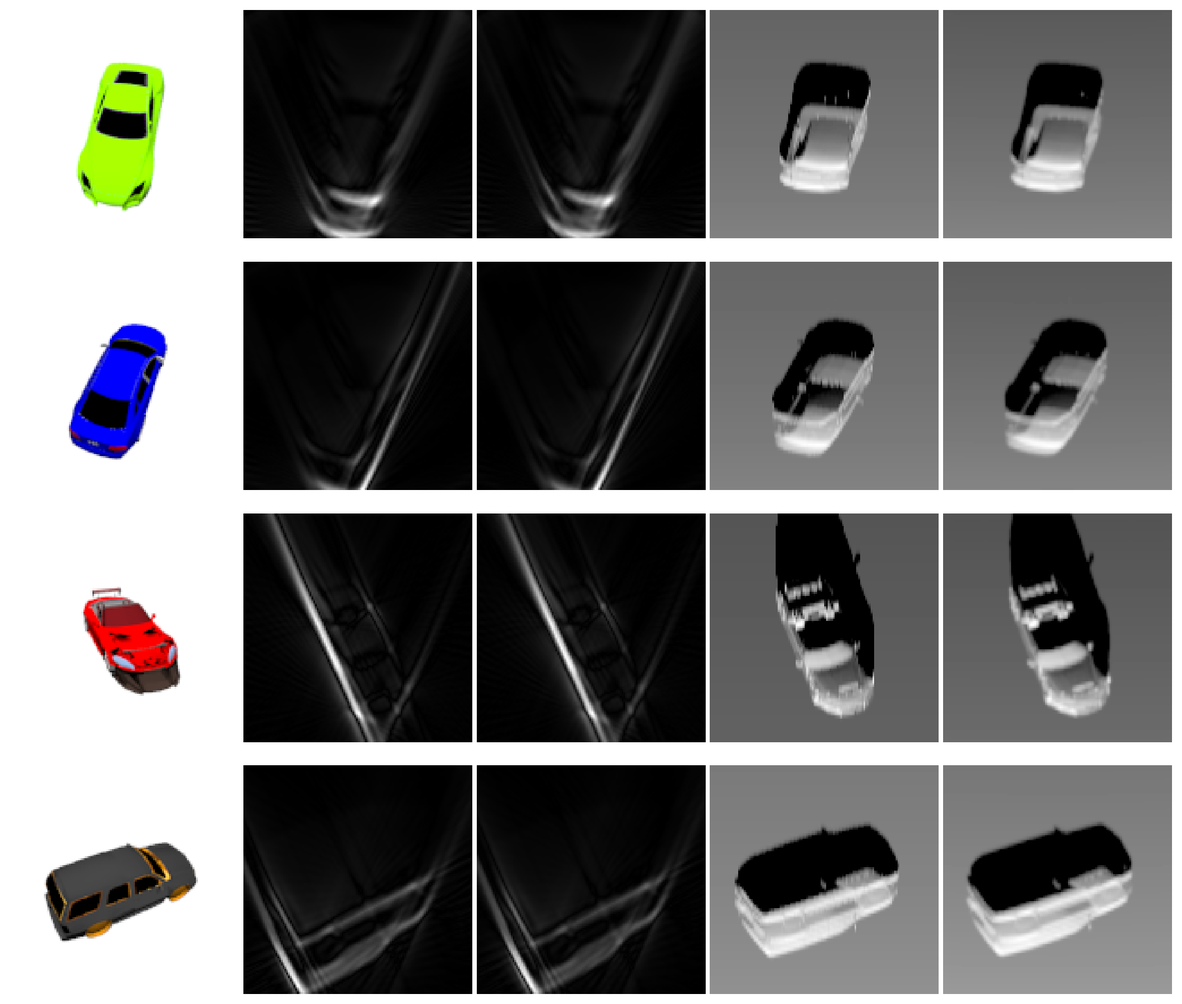
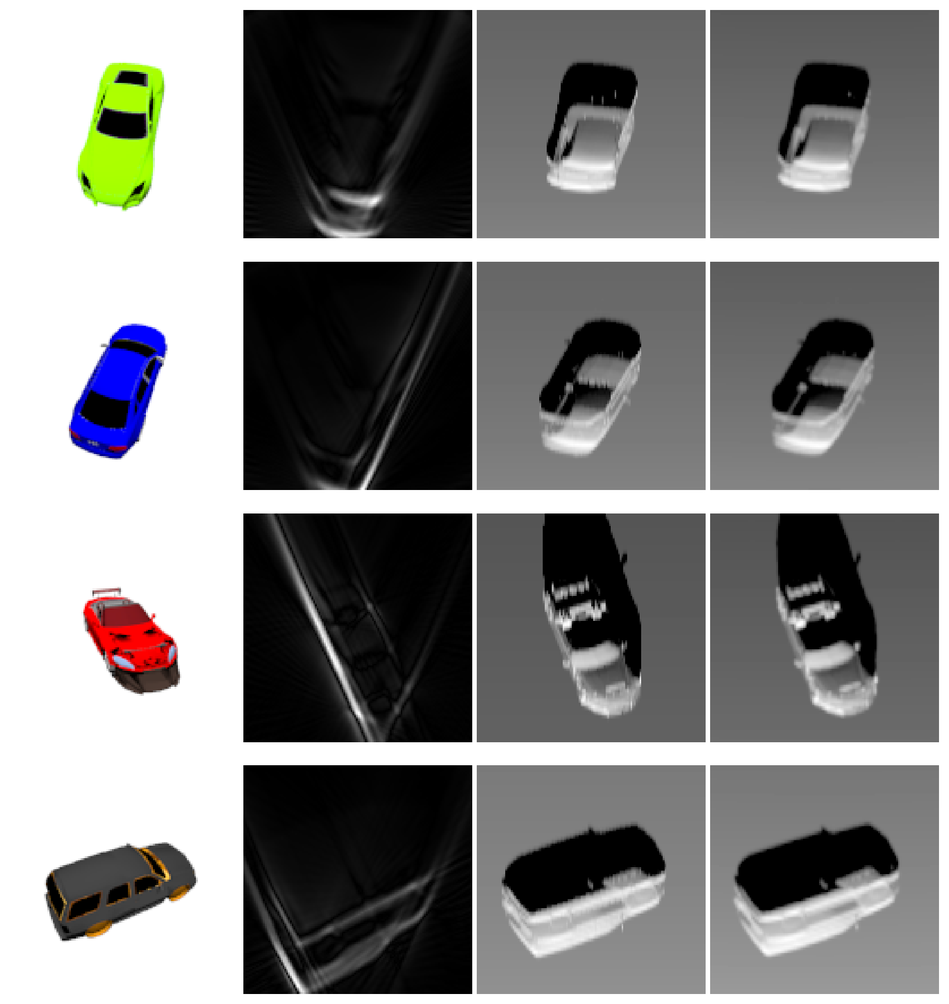
paper: spotlight SAR only, drop stripmap
Claude-Session: https://claude.ai/code/session_01GGmVrkSgyd4LF9qZZbmMeN

diff --git a/latex/main.tex b/latex/main.tex
@@ -34,9 +34,9 @@ Department of Electrical and Computer Engineering, The University of Arizona, Tu
 
 \corres{Correspondence: berian@arizona.edu}
 
-\abstract{There is currently a lack of open-source SAR and sonar simulators. \emph{RaySAR} supports only stripmap-mode imaging and forms images directly from geometry without simulating a received signal, while \emph{CVDomes} is limited to a few CAD models and spotlight mode. Both depend on outdated software such as MATLAB and POV-Ray, and neither simulates sonar. We present an \emph{open-source SAR and sonar simulator} implemented in \emph{PyTorch} with \emph{GPU acceleration} that renders four imaging modalities from a single ray-traced signal model: \emph{spotlight-mode SAR}, \emph{stripmap-mode SAR}, \emph{side-scan sonar}, and \emph{forward-looking sonar}. It supports arbitrary \texttt{.obj} 3D models, with configurable wavelength, sample rate, bandwidth, transmit waveform, and material properties. We simulate multi-bounce ray tracing to model realistic reflectivity, scattering, and absorption. We introduce an efficient low-pass filtering technique for summation and interpolation of ray returns, termed \emph{interposummation}, which accounts for the effective bandwidth and sample rate of the sensor. Each return keeps the round-trip phase of its path, so the simulated signals are complex-valued and support \emph{coherent imaging}. Interposummation accepts \emph{arbitrary transmit waveforms} through the effective window of their matched filter, so pulse-compression waveforms such as LFM chirps and Barker codes are simulated from the same ray trace as an ideal band-limited pulse. The simulator further supports radar cross section modeling, different noise types, and imperfect sensor trajectories. We test our simulator on ShapeNet car models with spotlight-mode SAR, side-scan sonar, and forward-looking sonar, and validate the stripmap-mode reconstruction against spotlight mode.}
+\abstract{There is currently a lack of open-source SAR and sonar simulators. \emph{RaySAR} forms images directly from geometry without simulating a received signal, while \emph{CVDomes} is limited to a few CAD models. Both depend on outdated software such as MATLAB and POV-Ray, and neither simulates sonar. We present an \emph{open-source SAR and sonar simulator} implemented in \emph{PyTorch} with \emph{GPU acceleration} that renders three imaging modalities from a single ray-traced signal model: \emph{spotlight-mode SAR}, \emph{side-scan sonar}, and \emph{forward-looking sonar}. It supports arbitrary \texttt{.obj} 3D models, with configurable wavelength, sample rate, bandwidth, transmit waveform, and material properties. We simulate multi-bounce ray tracing to model realistic reflectivity, scattering, and absorption. We introduce an efficient low-pass filtering technique for summation and interpolation of ray returns, termed \emph{interposummation}, which accounts for the effective bandwidth and sample rate of the sensor. Each return keeps the round-trip phase of its path, so the simulated signals are complex-valued and support \emph{coherent imaging}. Interposummation accepts \emph{arbitrary transmit waveforms} through the effective window of their matched filter, so pulse-compression waveforms such as LFM chirps and Barker codes are simulated from the same ray trace as an ideal band-limited pulse. The simulator further supports radar cross section modeling, different noise types, and imperfect sensor trajectories. We test our simulator on ShapeNet car models with spotlight-mode SAR, side-scan sonar, and forward-looking sonar.}
 
-\keyword{SAR; spotlight SAR; stripmap SAR; side-scan sonar; forward-looking sonar; pulse compression; ray tracing; simulator}
+\keyword{SAR; spotlight SAR; side-scan sonar; forward-looking sonar; pulse compression; ray tracing; simulator}
 
 %=================================================================
 \begin{document}
@@ -53,9 +53,9 @@ The primary functionality of the simulator is to use ray tracing combined with a
 \begin{itemize}
     \item \textbf{Interposummation}, a low-pass summation and interpolation of ray returns that produces signals matched to the bandwidth and sample rate of the sensor and preserves the carrier phase of every return for coherent imaging. Unlike standard range compression, which filters a signal already sampled on a uniform grid, interposummation evaluates the band-limited response directly from irregularly spaced ray returns, so one step both interpolates each return onto the sample grid and sums all returns into each sample.
     \item \textbf{Arbitrary transmit waveforms.} Any transmit waveform enters the simulation through the effective window of its matched filter, so an ideal sinc, a Gaussian pulse, an LFM chirp, a Barker-13 code, or any other sampled waveform is simulated from the same ray trace, with the range sidelobes of the corresponding pulse-compression system.
-    \item \textbf{Four imaging modalities} from one simulator: spotlight-mode SAR \cite{spotlightmodesar}, stripmap-mode SAR, side-scan sonar (SSS), and forward-looking sonar (FLS). Every quantity in the simulator is expressed in spatial units, so radar and sonar share the same ray tracer, material model, and interposummation, and differ only in how rays are launched, how returns are weighted by the beam and the medium, and how the signals are formed into an image.
+    \item \textbf{Three imaging modalities} from one simulator: spotlight-mode SAR \cite{spotlightmodesar}, side-scan sonar (SSS), and forward-looking sonar (FLS). Every quantity in the simulator is expressed in spatial units, so radar and sonar share the same ray tracer, material model, and interposummation, and differ only in how rays are launched, how returns are weighted by the beam and the medium, and how the signals are formed into an image.
 \end{itemize}
-Figure \ref{fig:modality-comparison} highlights this flexibility, rendering a spotlight-mode SAR image by convolution backprojection (CBP), a stripmap-mode SAR image, an SSS image, and an FLS image of four different ShapeNet car models with the same simulator.
+Figure \ref{fig:modality-comparison} highlights this flexibility, rendering a spotlight-mode SAR image by convolution backprojection (CBP), an SSS image, and an FLS image of four different ShapeNet car models with the same simulator.
 
 Figure \ref{fig:main-fig} showcases an example of our simulator on a ShapeNet \cite{shapenet} car
 model. The spotlight-mode SAR image is shown in Figure \ref{fig:main-fig}.b, with the aperture
@@ -102,13 +102,12 @@ imaging (Figure \ref{fig:main-fig}.b) can be done.
     \includegraphics[width=\textwidth]{figs/modality_comparison.png}
     \par\vspace{2pt}
     \makebox[\textwidth]{%
-        \makebox[0.19\textwidth]{(\textbf{a})}\hfill
-        \makebox[0.19\textwidth]{(\textbf{b})}\hfill
-        \makebox[0.19\textwidth]{(\textbf{c})}\hfill
-        \makebox[0.19\textwidth]{(\textbf{d})}\hfill
-        \makebox[0.19\textwidth]{(\textbf{e})}%
+        \makebox[0.24\textwidth]{(\textbf{a})}\hfill
+        \makebox[0.24\textwidth]{(\textbf{b})}\hfill
+        \makebox[0.24\textwidth]{(\textbf{c})}\hfill
+        \makebox[0.24\textwidth]{(\textbf{d})}%
     }
-    \caption{The four imaging modalities of our simulator, rendered for four ShapeNet \cite{shapenet} car models. (\textbf{a}) RGB image of each model, (\textbf{b}) spotlight-mode SAR image by convolution backprojection, (\textbf{c}) stripmap-mode SAR image from the same linear aperture, (\textbf{d}) side-scan sonar image, and (\textbf{e}) forward-looking sonar image.}
+    \caption{The three imaging modalities of our simulator, rendered for four ShapeNet \cite{shapenet} car models. (\textbf{a}) RGB image of each model, (\textbf{b}) spotlight-mode SAR image by convolution backprojection, (\textbf{c}) side-scan sonar image, and (\textbf{d}) forward-looking sonar image.}
     \label{fig:modality-comparison}
 \end{figure}
 
@@ -123,10 +122,9 @@ imaging (Figure \ref{fig:main-fig}.b) can be done.
 \label{sec:related}
 
 To the best of our knowledge, there are only two other publicly available SAR data simulators.
-RaySAR \cite{raysar} is a MATLAB repository for simulating stripmap-mode SAR images via ray
+RaySAR \cite{raysar} is a MATLAB repository for simulating SAR images via ray
 tracing. CVDomes \cite{cvdomes} is a MATLAB repository that simulates spotlight-mode SAR images
-from a small set of CAD models. Each is limited to a single SAR imaging mode, neither simulates
-sonar, and neither lets the user choose the transmit waveform: RaySAR forms images directly from
+from a small set of CAD models. Neither simulates sonar, and neither lets the user choose the transmit waveform: RaySAR forms images directly from
 geometry without simulating a received signal, and CVDomes exports phase histories at a fixed band
 and center frequency.
 
@@ -167,7 +165,7 @@ A \texttt{.obj} file is a collection of $V$ vertices in 3D space and $F$ triangl
 is to produce a SAR or sonar image of the mesh from $P$ pulses (pings, in sonar) of a sensor with a
 given transmit waveform, bandwidth, and sample rate. A signal needs to be simulated for each pulse
 from a known azimuth angle $a$ and elevation angle $e$. From the simulated signals, we form
-spotlight-mode SAR, stripmap-mode SAR, side-scan sonar, or forward-looking sonar images, or do
+spotlight-mode SAR, side-scan sonar, or forward-looking sonar images, or do
 other analyses.
 
 \section{Method}
@@ -504,7 +502,7 @@ where $w(z) = h(z) * x(z)$ is the effective windowing function, and $|_{z=z_o}$ 
 
 Each transmit waveform therefore replaces the ideal sinc of interposummation with a different effective window $w(z)$. Figure \ref{fig:effective-windows} compares the effective windows produced by a sinc, a Gaussian pulse, an LFM chirp, and a Barker-13 code, all designed for the same spatial bandwidth $B_s$. In the range domain (Figure \ref{fig:effective-windows}, left) the sinc yields the narrowest mainlobe but slowly decaying range sidelobes, while the Gaussian pulse trades a wider mainlobe for the complete suppression of sidelobes. The LFM chirp and Barker-13 waveforms, which are widely used in practical radar systems, achieve a mainlobe comparable to the sinc while exhibiting the characteristic range sidelobes of pulse compression.
 
-In the frequency domain (Figure \ref{fig:effective-windows}, right) the sinc window fills the band $\pm B_s/2$ with a sharp cutoff, whereas the Gaussian rolls off smoothly and the LFM and Barker-13 spectra fill the band with some ripple. Because interposummation is agnostic to the choice of $w(z)$, our simulator can substitute any of these effective windows to emulate the range response of a real radar's or sonar's pulse-compression waveform. The waveform is not limited to these four: any transmit waveform $x(z)$ sampled on a fine range grid is supported, since its effective window is computed once as the autocorrelation of $x(z)$ and then linearly interpolated at the range offset of every return. The waveform therefore adds no ray tracing, and every return costs the same as with the ideal sinc. The effective window is shared by all four imaging modalities.
+In the frequency domain (Figure \ref{fig:effective-windows}, right) the sinc window fills the band $\pm B_s/2$ with a sharp cutoff, whereas the Gaussian rolls off smoothly and the LFM and Barker-13 spectra fill the band with some ripple. Because interposummation is agnostic to the choice of $w(z)$, our simulator can substitute any of these effective windows to emulate the range response of a real radar's or sonar's pulse-compression waveform. The waveform is not limited to these four: any transmit waveform $x(z)$ sampled on a fine range grid is supported, since its effective window is computed once as the autocorrelation of $x(z)$ and then linearly interpolated at the range offset of every return. The waveform therefore adds no ray tracing, and every return costs the same as with the ideal sinc. The effective window is shared by all three imaging modalities.
 
 \begin{figure}[H]
   \centering
@@ -517,8 +515,8 @@ In the frequency domain (Figure \ref{fig:effective-windows}, right) the sinc win
 \label{sec:modalities-overview}
 
 The simulated signals are independent of how they are imaged, and the simulator forms images in
-four modalities, summarized in Table \ref{tab:modalities} and detailed in Appendix
-\ref{sec:modalities}. All four share the ray tracer, the material model of
+three modalities, summarized in Table \ref{tab:modalities} and detailed in Appendix
+\ref{sec:modalities}. All three share the ray tracer, the material model of
 (\ref{eq:returned-energy}), and interposummation with any effective window $w(z)$, so the range
 resolution of every modality is set by the spatial bandwidth $B_s$ of the transmit waveform. They
 differ in how the rays are launched, how the returns are weighted, and how the signals are formed
@@ -526,11 +524,8 @@ into an image.
 
 \textbf{Spotlight-mode SAR} casts the parallel ray grid of Figure \ref{fig:sig-sim} from each
 position of a circular or linear trajectory, aimed at the scene origin, and forms the image by
-convolution backprojection \cite{spotlightmodesar}. \textbf{Stripmap-mode SAR} images the signals
-of a linear trajectory by filtered backprojection along the exact range from each sensor position
-to each pixel, with the ramp filter applied after demodulation so that it nulls the carrier rather
-than baseband. When a wavelength is given, both demodulate each pulse and integrate the
-complex-valued pulses coherently, so the image is formed from the phase of the returns as well as
+convolution backprojection \cite{spotlightmodesar}. When a wavelength is given, it demodulates
+each pulse and integrates the complex-valued pulses coherently, so the image is formed from the phase of the returns as well as
 their magnitude.
 
 The sonars replace the planar wavefront with a point source. Each ping casts a fan of rays from the
@@ -542,7 +537,7 @@ position and steers its beam across the scene. Since the sensor does not move, t
 after ray tracing, and all $P$ pings share a single ray trace.
 
 \begin{table}[H]
-\caption{The four imaging modalities of the simulator. All share the ray tracer, the material model,
+\caption{The three imaging modalities of the simulator. All share the ray tracer, the material model,
 and interposummation with an arbitrary transmit waveform, so range resolution is set by $B_s$ in
 every modality.}
 \label{tab:modalities}
@@ -553,7 +548,6 @@ every modality.}
 \textbf{Modality} & \textbf{Rays} & \textbf{Sensor motion} & \textbf{Cross-range resolution} & \textbf{Image formation} \\
 \midrule
 Spotlight SAR & Parallel grid per pulse & Circular or linear, aimed at the scene & Synthetic aperture & Convolution backprojection \\
-Stripmap SAR & Parallel grid per pulse & Linear & Synthetic aperture & Filtered backprojection on exact range \\
 Side-scan sonar & Point-source fan per ping & Linear, fixed beam & Beam width & Range profiles stacked along track \\
 Forward-looking sonar & Point-source fan, traced once & Stationary, steered beam & Beam width & Range profiles stacked in azimuth \\
 \bottomrule
@@ -563,7 +557,7 @@ Forward-looking sonar & Point-source fan, traced once & Stationary, steered beam
 
 \section{Experiments}
 \label{sec:experiments}
-We test our signal simulation in the imaging modalities of Section \ref{sec:modalities-overview}. We first compare a constant material with per-triangle materials on a CVDomes car, then validate the SAR forward model on point scatterers, a sphere, and a flat plate. The following experiments use spotlight-mode SAR as described in the Jakowatz book \cite{spotlightmodesar}, vary the bandwidth and sample rate to show where the signal model breaks down, and then measure the compute time on a GPU and a CPU. Further SAR images that vary the aperture, the noise, the wavelength, the transmit waveform, and the sensor trajectory are given in Appendix \ref{app:sar-examples}. The remaining experiments vary the beam width and bandwidth of the forward-looking and side-scan sonars. The stripmap-mode reconstruction is validated against spotlight mode in Appendix \ref{sec:stripmap-sar}. The sensor is placed on the bottom side of every image, so illumination always arrives from that direction. Unless specified otherwise, the SAR experiments use the default parameters shown in Table \ref{tab:params} of Appendix \ref{app:params}, and are on the car model from the ShapeNet \cite{shapenet} cars dataset shown in Figure \ref{fig:main-fig}.a.
+We test our signal simulation in the imaging modalities of Section \ref{sec:modalities-overview}. We first compare a constant material with per-triangle materials on a CVDomes car, then validate the SAR forward model on point scatterers, a sphere, and a flat plate. The following experiments use spotlight-mode SAR as described in the Jakowatz book \cite{spotlightmodesar}, vary the bandwidth and sample rate to show where the signal model breaks down, and then measure the compute time on a GPU and a CPU. Further SAR images that vary the aperture, the noise, the wavelength, the transmit waveform, and the sensor trajectory are given in Appendix \ref{app:sar-examples}. The remaining experiments vary the beam width and bandwidth of the forward-looking and side-scan sonars. The sensor is placed on the bottom side of every image, so illumination always arrives from that direction. Unless specified otherwise, the SAR experiments use the default parameters shown in Table \ref{tab:params} of Appendix \ref{app:params}, and are on the car model from the ShapeNet \cite{shapenet} cars dataset shown in Figure \ref{fig:main-fig}.a.
 
 \subsection{Per-Triangle Materials}
 \label{sec:per-triangle-materials}
@@ -904,11 +898,10 @@ body of the car breaks into dots and rings.
 In this paper, we presented an open-source, GPU-accelerated SAR and sonar simulator implemented
 in PyTorch that supports arbitrary 3D \texttt{.obj} models, multi-bounce ray tracing, and
 configurable sensor parameters such as wavelength, bandwidth, sample rate, transmit waveform, and
-material properties. From a single ray-traced signal model it renders four imaging modalities:
-spotlight-mode SAR, stripmap-mode SAR, side-scan sonar, and forward-looking sonar. It addresses the
-limitations of existing open-source tools such as \emph{RaySAR} and \emph{CVDomes}, which are each
-constrained to a single SAR mode, do not simulate sonar, and rely on outdated software such as
-MATLAB.
+material properties. From a single ray-traced signal model it renders three imaging modalities:
+spotlight-mode SAR, side-scan sonar, and forward-looking sonar. It addresses the
+limitations of existing open-source tools such as \emph{RaySAR} and \emph{CVDomes}, which do not
+simulate sonar and rely on outdated software such as MATLAB.
 
 The proposed \emph{interposummation} technique enables efficient low-pass filtering during the
 summation and interpolation of ray returns, accounting for the sensor's bandwidth and sampling
@@ -926,8 +919,7 @@ glint of a flat plate.
 We conducted a series of experiments on ShapeNet car models in spotlight-mode SAR, side-scan
 sonar, and forward-looking sonar, while varying key parameters such as bandwidth, sampling rate, and beam width, with
 further SAR examples varying the aperture, transmit waveform, wavelength, and sensor trajectory in
-Appendix \ref{app:sar-examples}, and validated
-the stripmap-mode reconstruction against spotlight mode. These experiments demonstrate how system
+Appendix \ref{app:sar-examples}. These experiments demonstrate how system
 parameters influence image quality and signal fidelity. In particular, we observed in both SAR and
 sonar that excessive oversampling of the energy-range scatter leads to poor signal quality and
 numerical artifacts. This can be mitigated either by reducing the effective bandwidth, which lowers
@@ -959,8 +951,8 @@ SONAR, broadening its applicability to a wider set of radar and sonar scenarios.
 \section{Imaging Modalities}
 \label{sec:modalities}
 
-Any imaging algorithm may be applied to the simulated signals, and this section describes the four
-used in this work: forward-looking sonar, side-scan sonar, and spotlight-mode and stripmap SAR.
+Any imaging algorithm may be applied to the simulated signals, and this section describes the three
+used in this work: forward-looking sonar, side-scan sonar, and spotlight-mode SAR.
 When a carrier wavelength $\lambda$ is specified, each return carries the round-trip phase of its
 own path, and
 the energy-range scatter of (\ref{eq:returned-scatters}) becomes complex,
@@ -1197,68 +1189,6 @@ samples $\vec{x}$ on an $H \times W$ grid of the ground plane centered on the or
 that the radar illuminates it from the bottom edge, and the displayed image is
 $|\hat{\gamma}(\vec{x})|$.
 
-\subsection{Stripmap SAR}
-\label{sec:stripmap-sar}
-
-We describe the stripmap reconstruction used in this work, and in particular the filtering step
-it requires. Let $\vec{v}_i$ be the sensor position on pulse $i$, and let $\rho_i(\vec{x}) =
-\lVert\vec{v}_i-\vec{x}\rVert$ be the one-way range from that position to a ground point
-$\vec{x}$. A direct estimate of the ground reflectivity $\gamma$ evaluates every pulse at the
-range of $\vec{x}$, counter-rotates the carrier phase of that range, and averages,
-\begin{equation}
-    \hat{\gamma}(\vec{x}) = \frac{1}{P}\sum_{i=1}^{P}s_i\big(\rho_i(\vec{x})\big)e^{-j 4 \pi \rho_i(\vec{x}) / \lambda}
-    ,
-    \label{eq:naive-bp}
-\end{equation}
-where $s_i$ is evaluated between its samples by band-limited interpolation,
-\begin{equation}
-    s_i(\rho) = \sum_{n}s_i[n]\sinc\big(F_s(\rho-z_{i,n})\big)
-    ,
-    \label{eq:bp-interp}
-\end{equation}
-and $z_{i,n}$ is the range of the $n^{th}$ sample of pulse $i$.
-
-Equation (\ref{eq:naive-bp}) is unfiltered backprojection, and it does not recover $\gamma$. Each
-pulse spreads its range profile uniformly along its iso-range contours, which are straight lines
-across the scene. A line is constant in the cross-range direction, so it deposits all of its
-energy at the origin of the image's two-dimensional spatial-frequency plane, and averaging $P$
-pulses stacks $P$ such contributions there. The reconstruction is then the laminogram familiar
-from tomography: the true reflectivity convolved with $1/\lVert\vec{x}\rVert$, whose transfer
-function is the reciprocal of the radial spatial frequency. Low spatial frequencies are amplified
-without bound, and the scene is buried under a smooth pedestal.
-
-Filtered backprojection suppresses the pedestal by weighting each pulse's spectrum with the
-Jacobian of the polar-to-Cartesian change of variables, $dZ_xdZ_y = |Z|dZda$, which is the same
-ramp filter as in the spotlight-mode reconstruction (\ref{eq:cbp-ramp}). What is specific to the
-coherent case is where the null of that ramp belongs. The phasor in (\ref{eq:coherent-signal}) shifts the reflectivity spectrum up by $2/\lambda$, so the origin of
-the image's spectrum lies at the carrier $Z = 2/\lambda$ rather than at $Z=0$, and nulling
-baseband instead leaves most of the pile-up in place. We therefore demodulate each pulse with
-(\ref{eq:demod}) before filtering, which slides the carrier onto $Z=0$, weight the spectrum
-$\tilde{S}_i(Z)$ of $\tilde{s}_i(z)$ by $|Z|$,
-\begin{equation}
-    \check{s}_i(z) = \int_{-\infty}^{\infty}|Z|\tilde{S}_i(Z)e^{j 2 \pi z Z}dZ
-    ,
-    \label{eq:ramp}
-\end{equation}
-and backproject the filtered pulses,
-\begin{equation}
-    \hat{\gamma}(\vec{x}) = \frac{1}{P}\sum_{i=1}^{P}\check{s}_i\big(\rho_i(\vec{x})\big)
-    .
-    \label{eq:filtered-bp}
-\end{equation}
-The counter-rotation of (\ref{eq:naive-bp}) does not reappear in (\ref{eq:filtered-bp}), because
-(\ref{eq:demod}) has already removed the carrier. Weighting the undemodulated spectrum by
-$|Z-2/\lambda|$ is equivalent. The displayed image is $|\hat{\gamma}(\vec{x})|$.
-
-Over a linear trajectory with the azimuth spread swept from $0^\circ$ to $135^\circ$, replacing
-(\ref{eq:naive-bp}) with (\ref{eq:filtered-bp}) raises the dynamic range of the reconstruction
-from 18--29~dB to 59--93~dB and lowers its median-to-peak amplitude ratio from $0.12$--$0.29$ to
-$0.02$--$0.04$. The filtered stripmap reconstruction and the spotlight-mode reconstruction of the
-same signals agree to within $1$~dB of dynamic range. The far-field approximation $\rho_i(\vec{x})
-\approx \lVert\vec{v}_i\rVert + \vec{u}_i\cdot\vec{x}$ of (\ref{eq:plane-wave-range}) may be substituted
-for the exact range in (\ref{eq:naive-bp}) and (\ref{eq:filtered-bp}), and affects neither the
-pedestal nor the analysis above.
-
 \section{SAR Image Examples}
 \label{app:sar-examples}
 This appendix shows spotlight-mode SAR images of the car of Figure \ref{fig:main-fig}.a as single parameters
@@ -1294,7 +1224,7 @@ In Figure \ref{fig:snr}, we demonstrate how varying the signal-to-noise ratio (S
   \label{fig:snr}
 \end{figure}
 
-In Figure \ref{fig:wavelength}, we analyze the effect of varying the wavelength parameter on the spotlight-mode SAR reconstruction. We use coherent integration of the complex-valued signals in both spotlight-mode and stripmap-mode SAR. Image quality is clearest at wavelengths that are well matched to the range resolution of the simulated system; wavelengths that are much shorter than the ray-grid spacing introduce interference patterns from constructive and destructive summation across nearby rays.
+In Figure \ref{fig:wavelength}, we analyze the effect of varying the wavelength parameter on the spotlight-mode SAR reconstruction. We use coherent integration of the complex-valued signals. Image quality is clearest at wavelengths that are well matched to the range resolution of the simulated system; wavelengths that are much shorter than the ray-grid spacing introduce interference patterns from constructive and destructive summation across nearby rays.
 
 \begin{figure}[H]
   \centering
@@ -1331,7 +1261,7 @@ costs coherent gain and yields the visibly dimmer reconstruction in Figure
 
 \subsection{Sensor Trajectory}
 
-In Figure \ref{fig:trajectory-type}, we compare the two supported sensor trajectories. The circular trajectory sweeps the sensor along a constant-radius arc around the target, while the linear trajectory translates the sensor along a straight path. The circular trajectory produces a more uniformly illuminated image because the range from the sensor to the target is nearly constant across pulses. The linear trajectory is the collection geometry of stripmap-mode SAR. Both are imaged here by convolution backprojection, and Appendix \ref{sec:stripmap-sar} shows that the stripmap-mode reconstruction of the same linear-trajectory signals matches it to within $1$~dB of dynamic range.
+In Figure \ref{fig:trajectory-type}, we compare the two supported sensor trajectories. The circular trajectory sweeps the sensor along a constant-radius arc around the target, while the linear trajectory translates the sensor along a straight path. The circular trajectory produces a more uniformly illuminated image because the range from the sensor to the target is nearly constant across pulses. Both are imaged by convolution backprojection.
 
 \begin{figure}[H]
   \centering

diff --git a/sar_paper_figures.py b/sar_paper_figures.py
@@ -1,6 +1,5 @@
 """SAR paper figure experiments. `main` runs the full suite via one call."""
 import os
-import zlib
 
 # MKL (libiomp5) and PyTorch (libomp) each link their own OpenMP runtime; the
 # second to initialize aborts with "OMP: Error #15". Allow the duplicate.
@@ -325,18 +324,17 @@ def generate_modality_comparison_figure(
     split='cars_train',
     seed=8134,
 ):
-    """Create a 4-row figure with RGB, CBP SAR, stripmap SAR, side scan and forward looking sonar panels, rendered as the dataset is."""
+    """Create a 4-row figure with RGB, CBP SAR, side scan and forward looking sonar panels, rendered as the dataset is."""
     # lazy: generate_dataset imports this module
     import generate_dataset as gd
 
     modalities = ('cbp_sar', 'side_scan_sonar', 'forward_looking_sonar')
-    columns = ('cbp_sar', 'stripmap_sar', 'side_scan_sonar', 'forward_looking_sonar')
     dataset_dir = srn_split_dir(split)
     obj_ids = sorted(os.listdir(dataset_dir))
     rng = np.random.RandomState(seed)
     os.makedirs(os.path.dirname(output_path), exist_ok=True)
 
-    fig, axes = plt.subplots(num_examples, 1 + len(columns), figsize=(15, 3.2 * num_examples),
+    fig, axes = plt.subplots(num_examples, 1 + len(modalities), figsize=(12, 3.2 * num_examples),
                              squeeze=False)
 
     for row_idx in range(num_examples):
@@ -351,24 +349,9 @@ def generate_modality_comparison_figure(
         gd.render_poses(obj_id, object_dir, mesh_path, {pose_num: modalities}, 1, poses,
                         'cuda', False, True, modalities, False)
 
-        # stripmap is not a dataset modality: image the cbp panel's aperture and noise seed with it
-        seed_pose = zlib.crc32(('%s/%s' % (obj_id, pose_num)).encode())
-        np.random.seed(seed_pose)
-        torch.manual_seed(seed_pose)
-        stripmap = gd._quiet(sar_render_image, mesh_path,
-                             gd.SAR_PAPER_BASELINE['num_pulse'],
-                             torch.tensor(poses[pose_num][0], device='cuda'),
-                             gd.AZIMUTH_SPREAD_DEG,
-                             imaging_algorithm = 'stripmap',
-                             trajectory_type   = gd.TRAJECTORY_TYPE,
-                             **{k: gd.SAR_PAPER_BASELINE[k] for k in gd.SAR_KEYS})  # (1,H,W)
-        gd.save_gray_png(stripmap[0].detach().cpu().numpy(),
-                         gd.output_path(object_dir, obj_id, pose_num, 'stripmap_sar', True),
-                         **gd.DISPLAY['cbp_sar'])
-
         rgb = np.array(PIL.Image.open(os.path.join(object_dir, 'rgb', f'{pose_num}.png')))[..., :3]
         panels = [rgb] + [np.array(PIL.Image.open(gd.output_path(object_dir, obj_id, pose_num, m, True)))
-                          for m in columns]
+                          for m in modalities]
         for col_idx, panel in enumerate(panels):
             axes[row_idx, col_idx].imshow(panel, cmap='gray', vmin=0, vmax=255)
             axes[row_idx, col_idx].axis('off')
